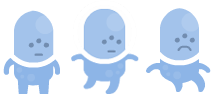
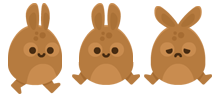
updated sprites and gameplay

diff --git a/app/src/main/java/net/kalloe/jumpy/ResourceManager.java b/app/src/main/java/net/kalloe/jumpy/ResourceManager.java
@@ -39,10 +39,9 @@ public class ResourceManager {
     public ITiledTextureRegion lifeTextureRegion;
     public ITiledTextureRegion enemyTextureRegion;
     public ITiledTextureRegion slimeEnemyTextureRegion;
-    public ITextureRegion platformTextureRegion;
+    public ITextureRegion platformGrassTextureRegion, platformSandTextureRegion;
     public ITextureRegion cloud1TextureRegion;
     public ITextureRegion cloud2TextureRegion;
-    public ITextureRegion coinTextureRegion;
     public ITextureRegion mushroomTextureRegion;
     public ITextureRegion mushroomJumpTextureRegion;
     public ITextureRegion mysteryboxTextureRegion;
@@ -113,8 +112,11 @@ public class ResourceManager {
                 activity.getAssets(), "slimeenemy.png", 1, 2);
 
         //Creates the platform (atlas) texture, from the platform.png, from the GameTextureAtlas object.
-        platformTextureRegion = BitmapTextureAtlasTextureRegionFactory.createFromAsset(gameTextureAtlas,
-                activity.getAssets(), "platform.png");
+        platformGrassTextureRegion = BitmapTextureAtlasTextureRegionFactory.createFromAsset(gameTextureAtlas,
+                activity.getAssets(), "platformgrass.png");
+
+        platformSandTextureRegion= BitmapTextureAtlasTextureRegionFactory.createFromAsset(gameTextureAtlas,
+                activity.getAssets(), "platformsand.png");
 
         //Creates the cloud number 1 (atlas) texture, from the cloud1.png, from the GameTextureAtlas object.
         cloud1TextureRegion = BitmapTextureAtlasTextureRegionFactory.createFromAsset(gameTextureAtlas,
@@ -124,14 +126,11 @@ public class ResourceManager {
         cloud2TextureRegion = BitmapTextureAtlasTextureRegionFactory.createFromAsset(gameTextureAtlas,
                 activity.getAssets(), "cloud2.png");
 
-        coinTextureRegion = BitmapTextureAtlasTextureRegionFactory.createFromAsset(gameTextureAtlas,
-                activity.getAssets(), "coin.png");
-
         mushroomTextureRegion = BitmapTextureAtlasTextureRegionFactory.createFromAsset(gameTextureAtlas,
                 activity.getAssets(), "mushroompowerup.png");
 
         mushroomJumpTextureRegion = BitmapTextureAtlasTextureRegionFactory.createFromAsset(gameTextureAtlas,
-                activity.getAssets(), "mushroombrownpowerup.png");
+                activity.getAssets(), "springpowerup.png");
 
         mysteryboxTextureRegion = BitmapTextureAtlasTextureRegionFactory.createFromAsset(gameTextureAtlas,
                 activity.getAssets(), "boxpowerup.png");

diff --git a/app/src/main/java/net/kalloe/jumpy/factory/PlatformFactory.java b/app/src/main/java/net/kalloe/jumpy/factory/PlatformFactory.java
@@ -13,6 +13,8 @@ import org.andengine.extension.physics.box2d.PhysicsWorld;
 import org.andengine.opengl.vbo.VertexBufferObjectManager;
 import org.andengine.util.Constants;
 
+import java.util.Random;
+
 /**
  * Created by Jamie on 5-3-2016.
  */
@@ -24,6 +26,7 @@ public class PlatformFactory {
     private static PlatformFactory INSTANCE = new PlatformFactory();
     private PhysicsWorld physicsWorld;
     private VertexBufferObjectManager vbom;
+    private Random random;
 
     //Singleton
     private PlatformFactory() {}
@@ -44,6 +47,7 @@ public class PlatformFactory {
     public void create(PhysicsWorld physicsWorld, VertexBufferObjectManager vbom) {
         this.physicsWorld = physicsWorld;
         this.vbom = vbom;
+        this.random = new Random();
     }
 
     /**
@@ -54,10 +58,16 @@ public class PlatformFactory {
      */
     public Platform createPlatform(float x, float y) {
         //Creates a new static (non-moving) platform for the given x and y coordinates.
-        Platform platform = new Platform(x, y, ResourceManager.getInstance().platformTextureRegion, vbom);
+        Platform platform;
+        if(this.random.nextBoolean()) {
+            platform = new Platform(x, y, ResourceManager.getInstance().platformGrassTextureRegion, vbom);
+        } else {
+            platform = new Platform(x, y, ResourceManager.getInstance().platformSandTextureRegion, vbom);
+        }
 
         //Sets the platform to the center.
         platform.setAnchorCenterY(1);
+        platform.setFlippedHorizontal(this.random.nextBoolean());
 
         //Gets the x and y (center) coordinates for the given scene.
         final float[] sceneCenterCoordinates = platform.getSceneCenterCoordinates();

diff --git a/app/src/main/java/net/kalloe/jumpy/scene/ShopScene.java b/app/src/main/java/net/kalloe/jumpy/scene/ShopScene.java
@@ -13,7 +13,6 @@ import org.andengine.entity.scene.menu.MenuScene;
 import org.andengine.entity.scene.menu.item.IMenuItem;
 import org.andengine.entity.scene.menu.item.TextMenuItem;
 import org.andengine.entity.scene.menu.item.decorator.ColorMenuItemDecorator;
-import org.andengine.entity.sprite.Sprite;
 import org.andengine.entity.text.Text;
 import org.andengine.util.adt.color.Color;
 
@@ -59,11 +58,11 @@ public class ShopScene extends AbstractScene implements MenuScene.IOnMenuItemCli
 //        menuScene.attachChild(player);
 
         //Retrieves the player's coins and displays it with a sprite and text object.
-        Sprite coinSprite = new Sprite(240, 600, res.coinTextureRegion, vbom);
+//        Sprite coinSprite = new Sprite(240, 600, res.coinTextureRegion, vbom);
         coinText = new Text(240, 550, res.font, String.valueOf(activity.getCoins()), vbom);
 
         //Attach all the text / sprite objects to the menu scene HUD.
-        menuScene.attachChild(coinSprite);
+//        menuScene.attachChild(coinSprite);
         menuScene.attachChild(coinText);
 
         setChildScene(menuScene);

diff --git a/app/src/main/java/net/kalloe/jumpy/scene/GameScene.java b/app/src/main/java/net/kalloe/jumpy/scene/GameScene.java
@@ -344,9 +344,9 @@ public class GameScene extends AbstractScene implements IAccelerationListener, I
         platforms.setAnchorCenter(0, 0);
 
         //Platform sprites
-        Sprite platform1 = new Sprite(150, 200, res.platformTextureRegion, vbom);
-        Sprite platform2 = new Sprite(250, 550, res.platformTextureRegion, vbom);
-        Sprite platform3 = new Sprite(350, 450, res.platformTextureRegion, vbom);
+        Sprite platform1 = new Sprite(150, 200, res.platformGrassTextureRegion, vbom);
+        Sprite platform2 = new Sprite(250, 550, res.platformSandTextureRegion, vbom);
+        Sprite platform3 = new Sprite(350, 450, res.platformGrassTextureRegion, vbom);
 
         //Platforms are made slightly transparent with the alpha channel.
         platform1.setColor(0.3f, 0.3f, 0.3f, 0.3f);

diff --git a/app/src/main/java/net/kalloe/jumpy/scene/CollisionContactListener.java b/app/src/main/java/net/kalloe/jumpy/scene/CollisionContactListener.java
@@ -88,7 +88,7 @@ public class CollisionContactListener implements ContactListener {
             //On contact (after the fall) the platform propels the player upwards.
             //Also a sound is played which resembles the jump action of the player.
             if(!player.isDead() && player.getBody().getLinearVelocity().y < 0) {
-                player.getBody().setLinearVelocity(new Vector2(0, 33));
+                player.getBody().setLinearVelocity(new Vector2(0, 34));
                 ResourceManager.getInstance().activity.playSound(ResourceManager.getInstance().soundJump);
             } else {
                 contact.setEnabled(false);
